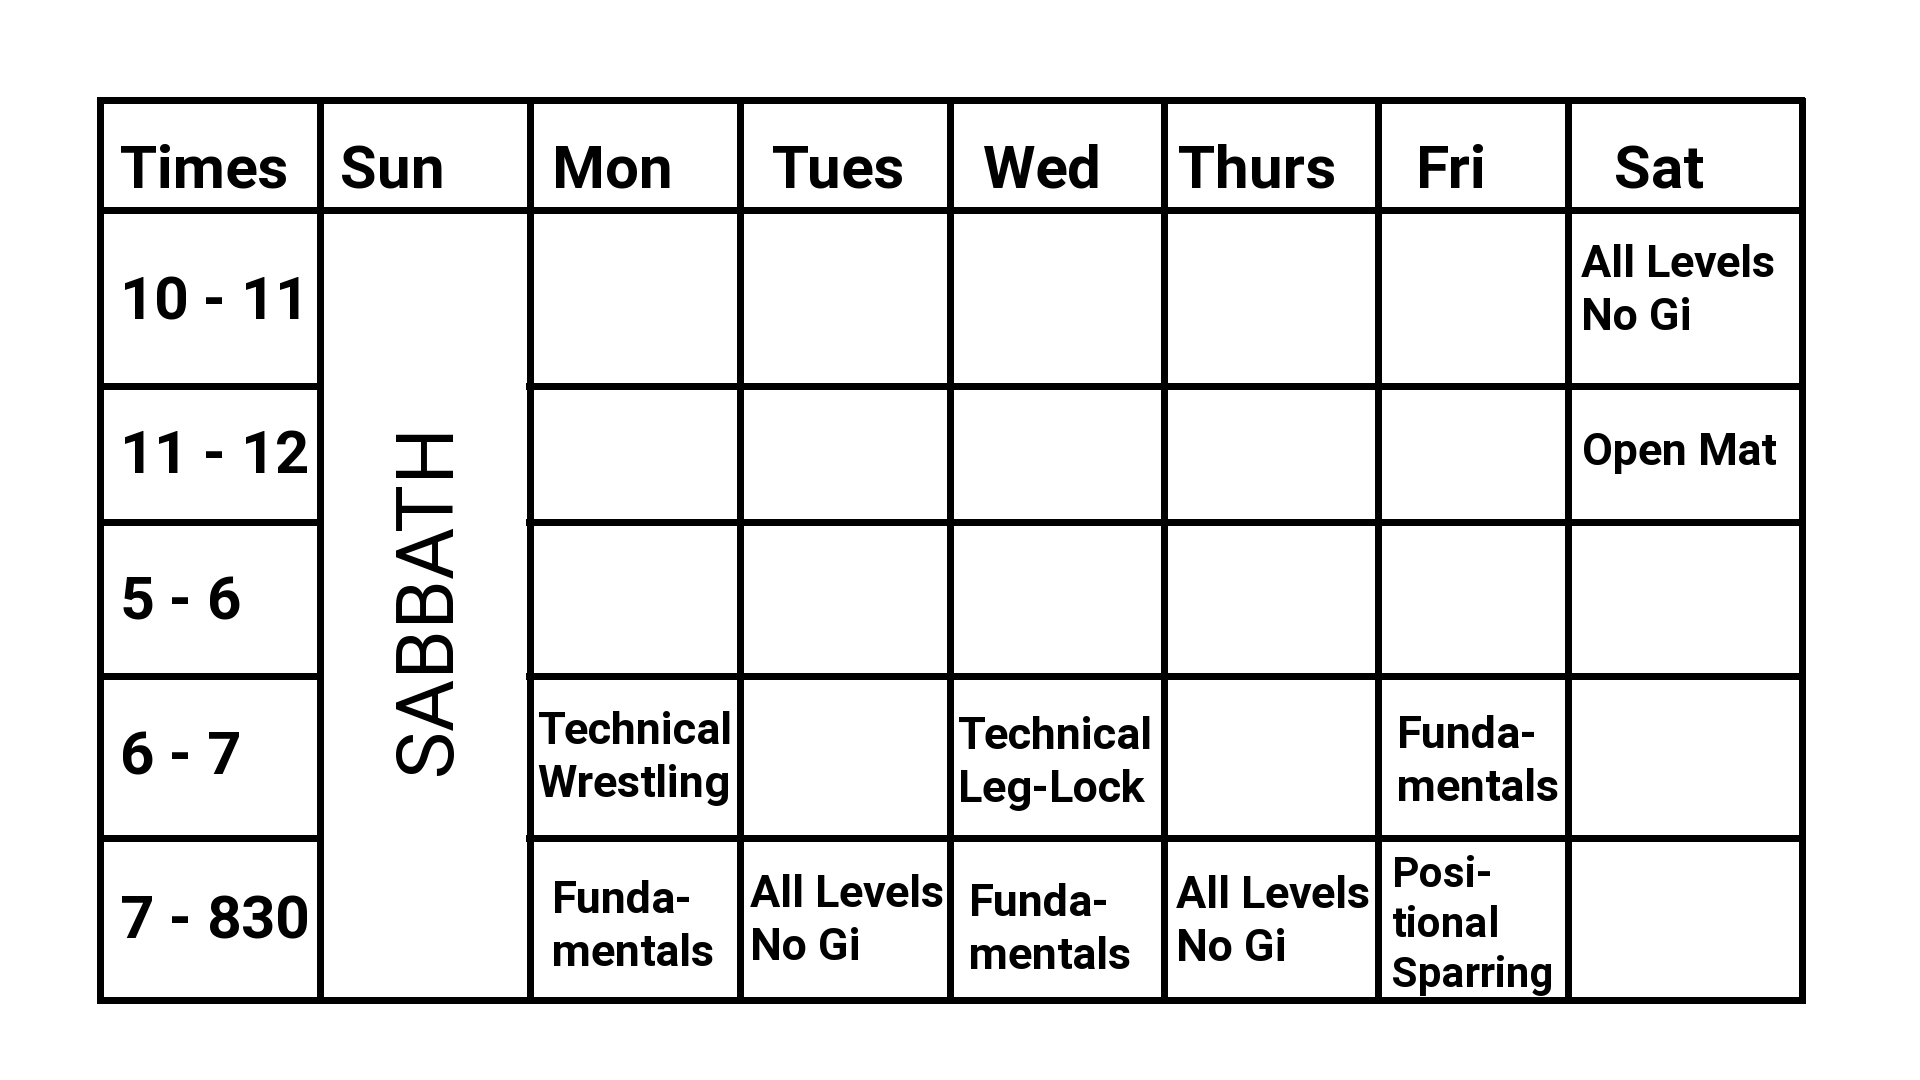
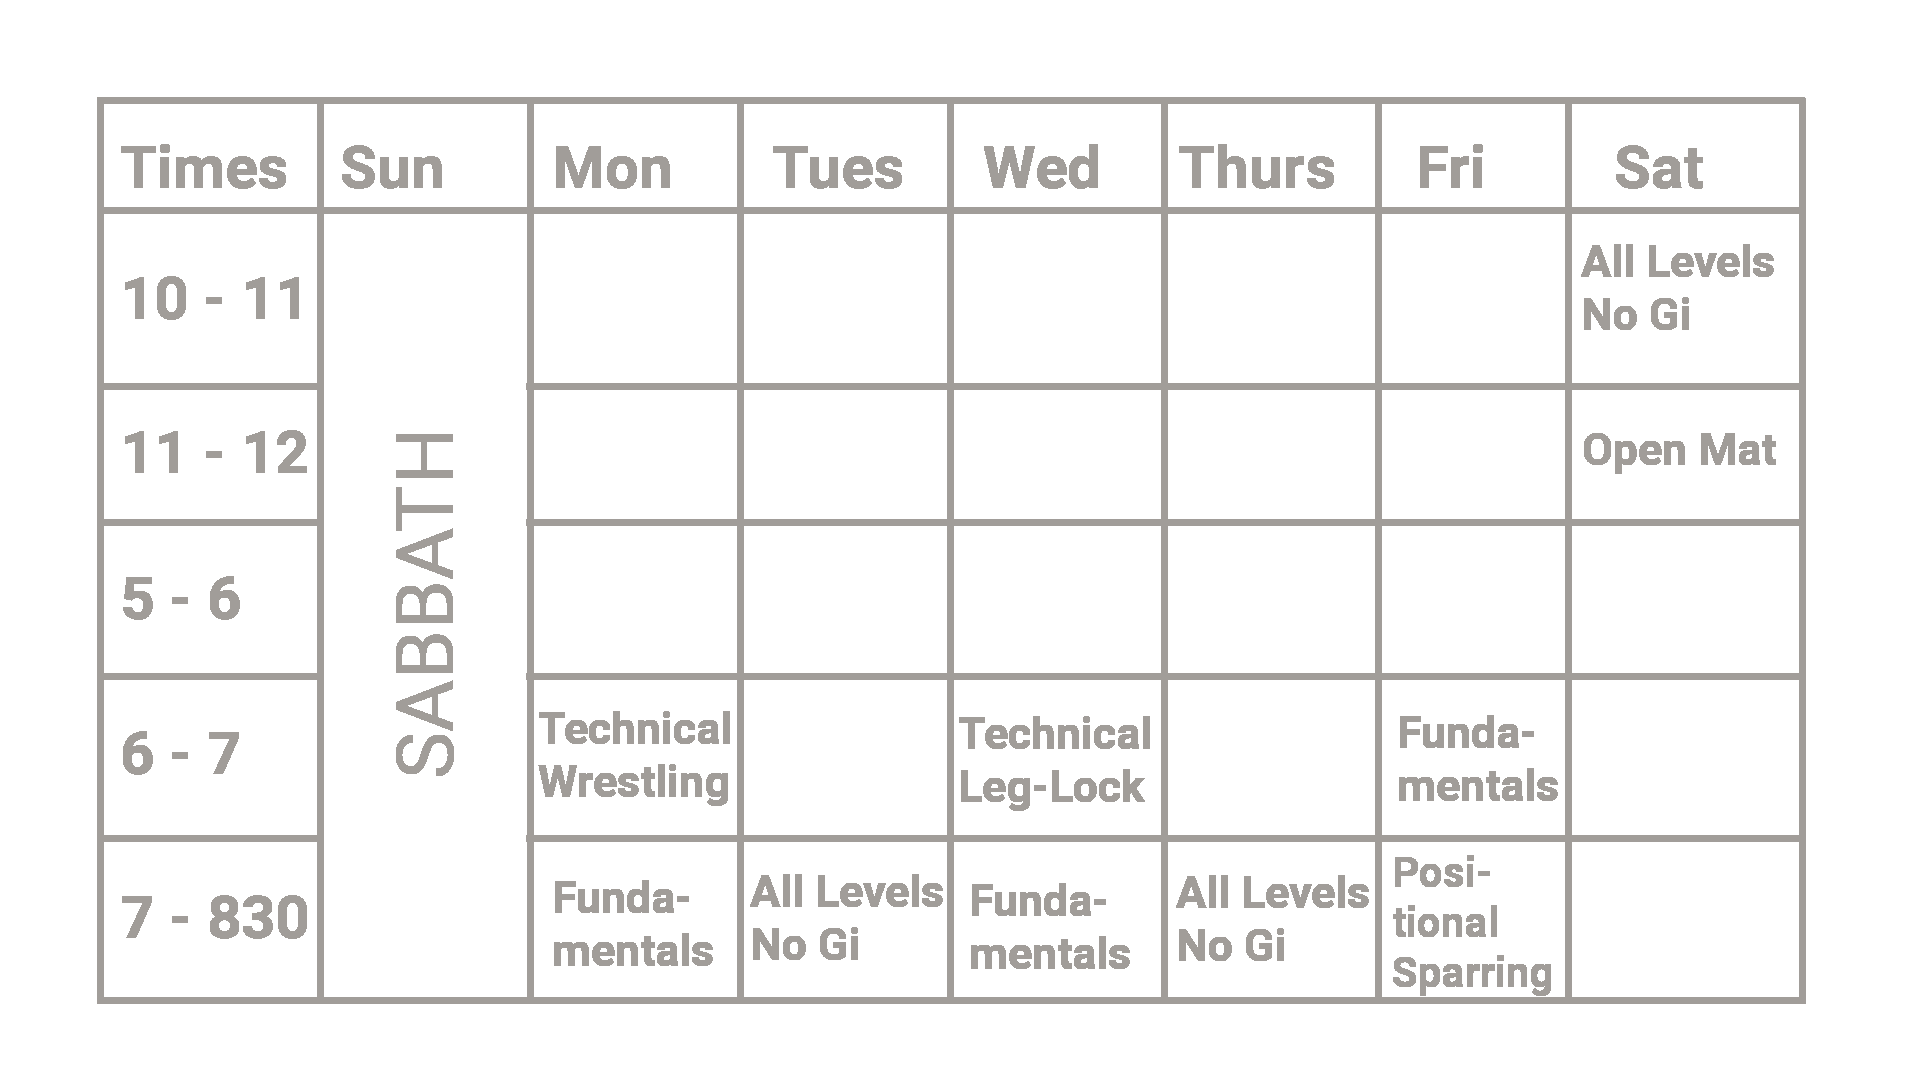
replaced schedule pic and overlay

Changed region(s): [[0.0312, 0.0917, 0.9375, 0.9472]]

diff --git a/src/index.css b/src/index.css
@@ -81,7 +81,7 @@
   left: 0;
   right: 0;
   bottom: 0;
-  background-color: rgba(255, 255, 255, 0.30); /* Black background with opacity */
+  background-color: #42382c9a; /* Black background with opacity */
   z-index: 2; /* Specify a stack order in case you're using a different order for other elements */
 }
 
